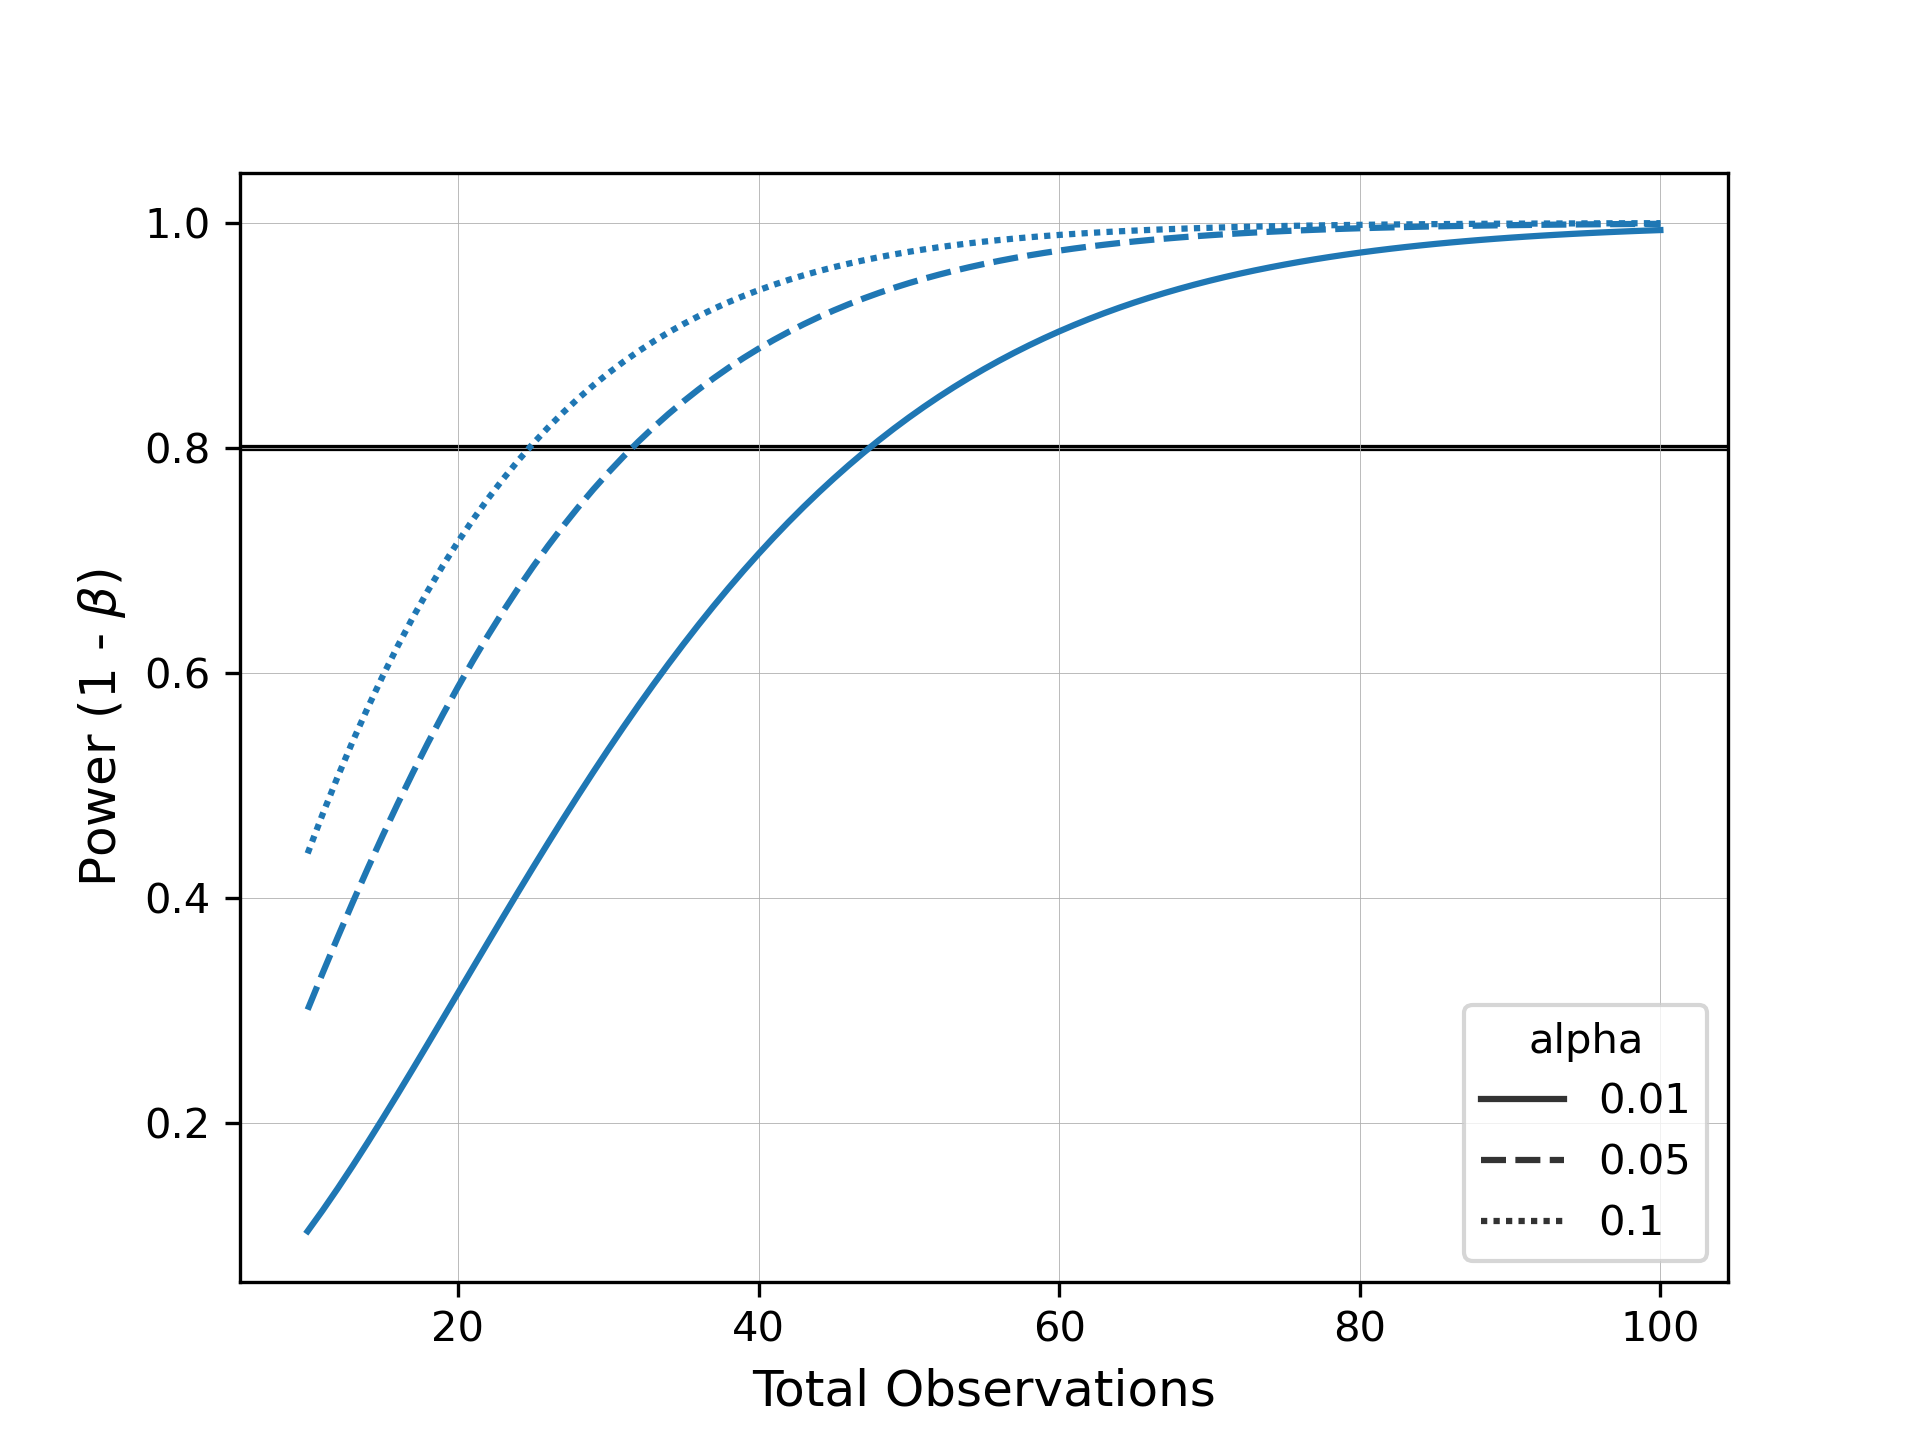
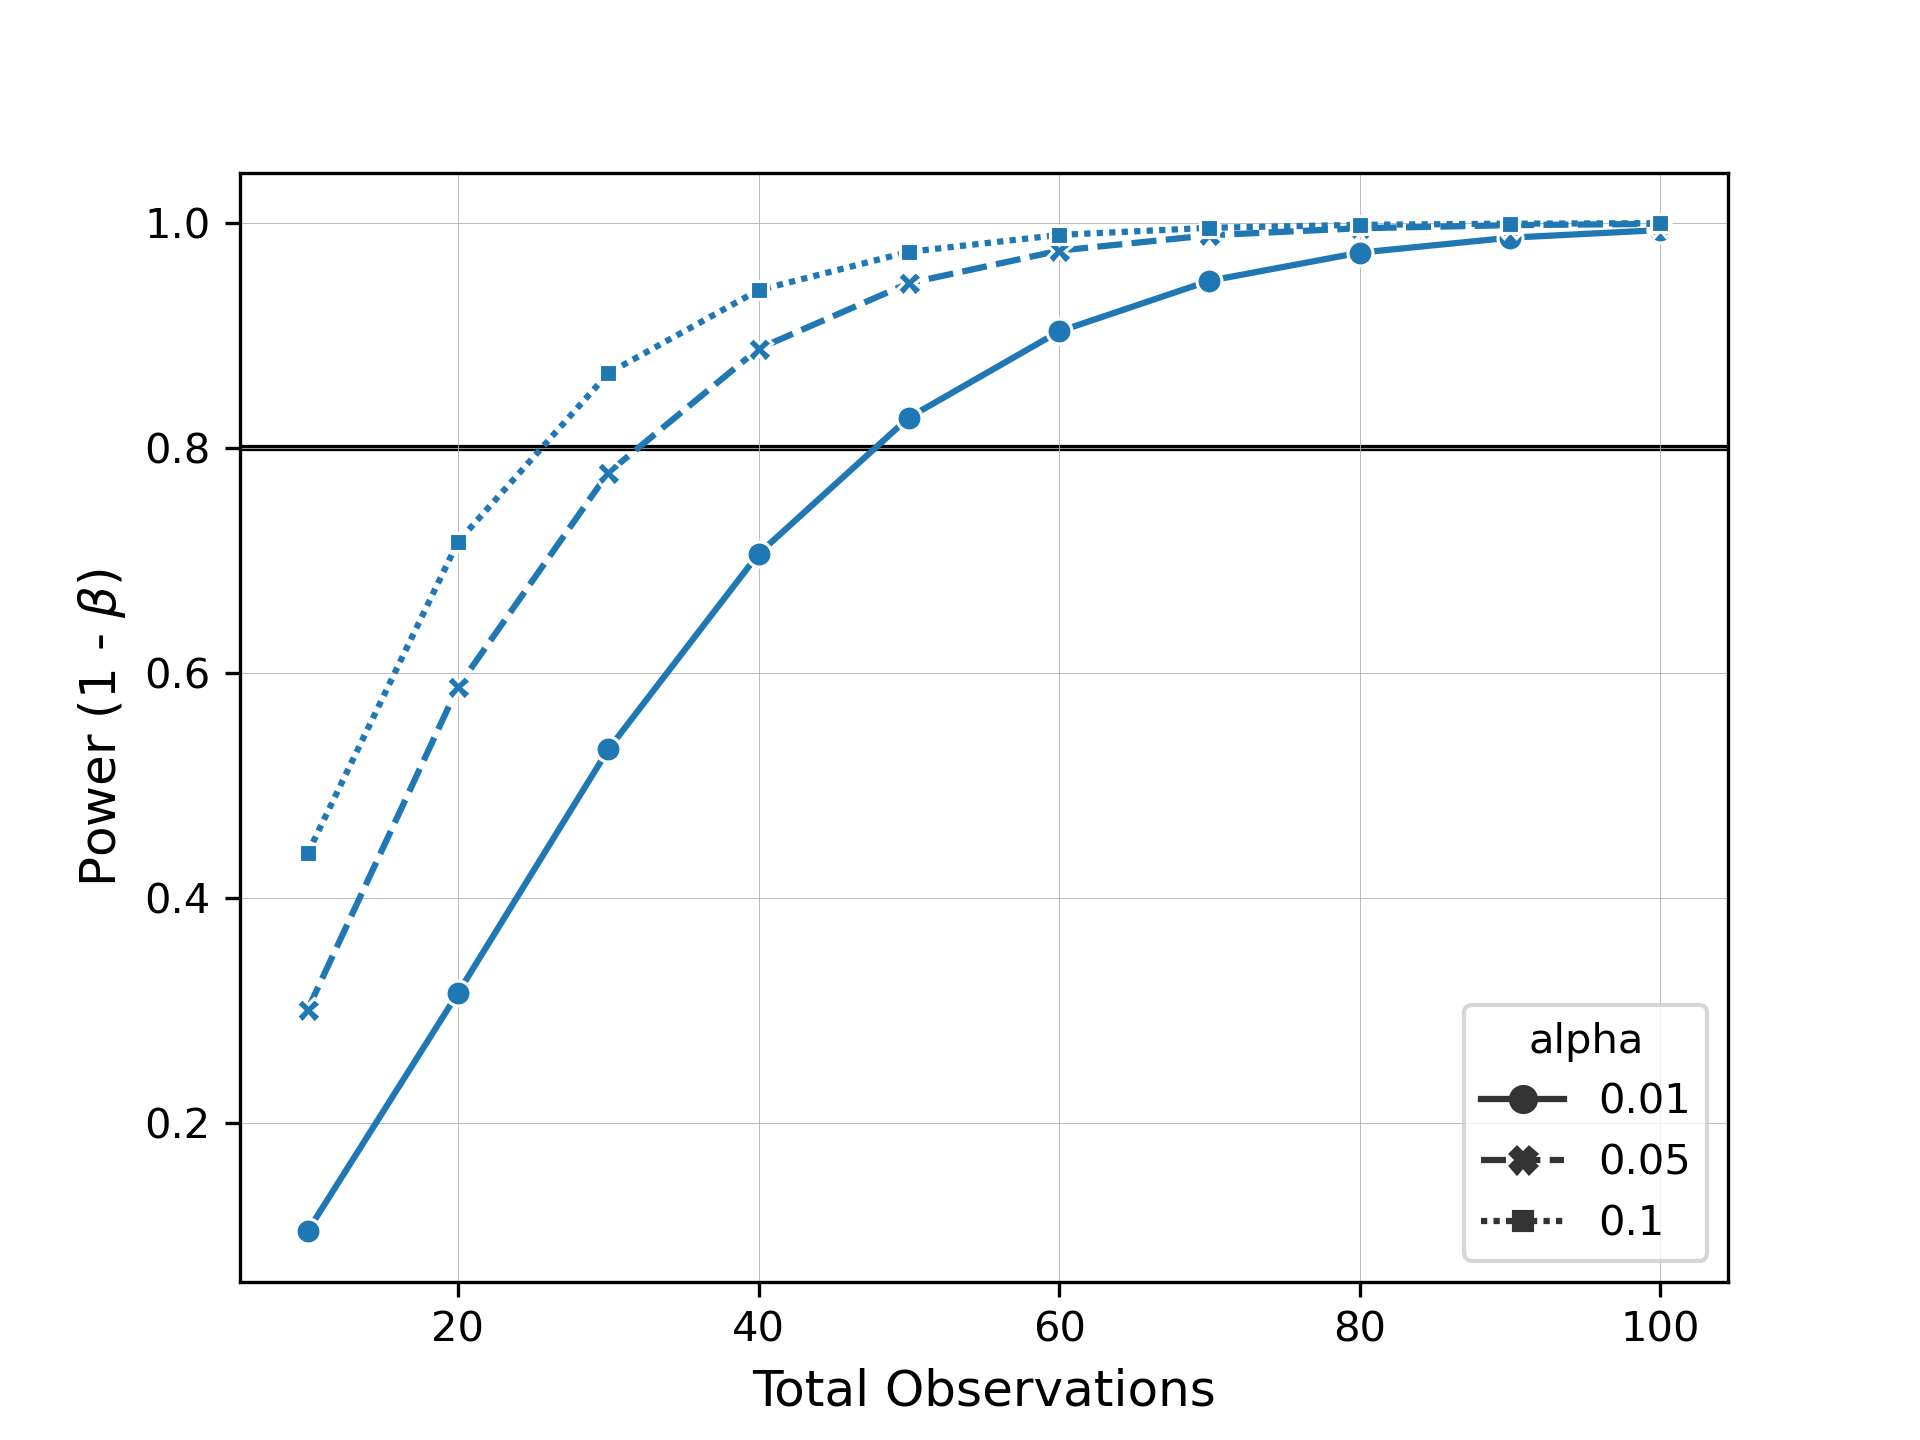
update README

diff --git a/README.md b/README.md
@@ -66,7 +66,7 @@ import evident
 
 Next, load your diversity file and sample metadata.
 For alpha diversity, this should be a pandas Series.
-For beta diversity, this should be and scikit-bio DistanceMatrix.
+For beta diversity, this should be an scikit-bio DistanceMatrix.
 Sample metadata should be a pandas DataFrame.
 We'll be using an alpha diversity vector for this tutorial but the commands are nearly the same for beta diversity distance matrices.
 
@@ -119,6 +119,7 @@ evident allows you to easily specify arguments for alpha, power, or total observ
 We can then plot these results as a power curve to summarize the data.
 
 ```python
+from evident.plotting import plot_power_curve
 import numpy as np
 
 alpha_vals = [0.01, 0.05, 0.1]
@@ -128,7 +129,7 @@ results = adh.power_analysis(
     alpha=alpha_vals,
     total_observations=obs_vals
 )
-evident.plotting.plot_power_curve(results, target_power=0.8, style="alpha")
+plot_power_curve(results, target_power=0.8, style="alpha", markers=True)
 ```
 
 When we inspect this plot, we can see how many samples we would need to collect to observe the same effect size at different levels of significance and power.
